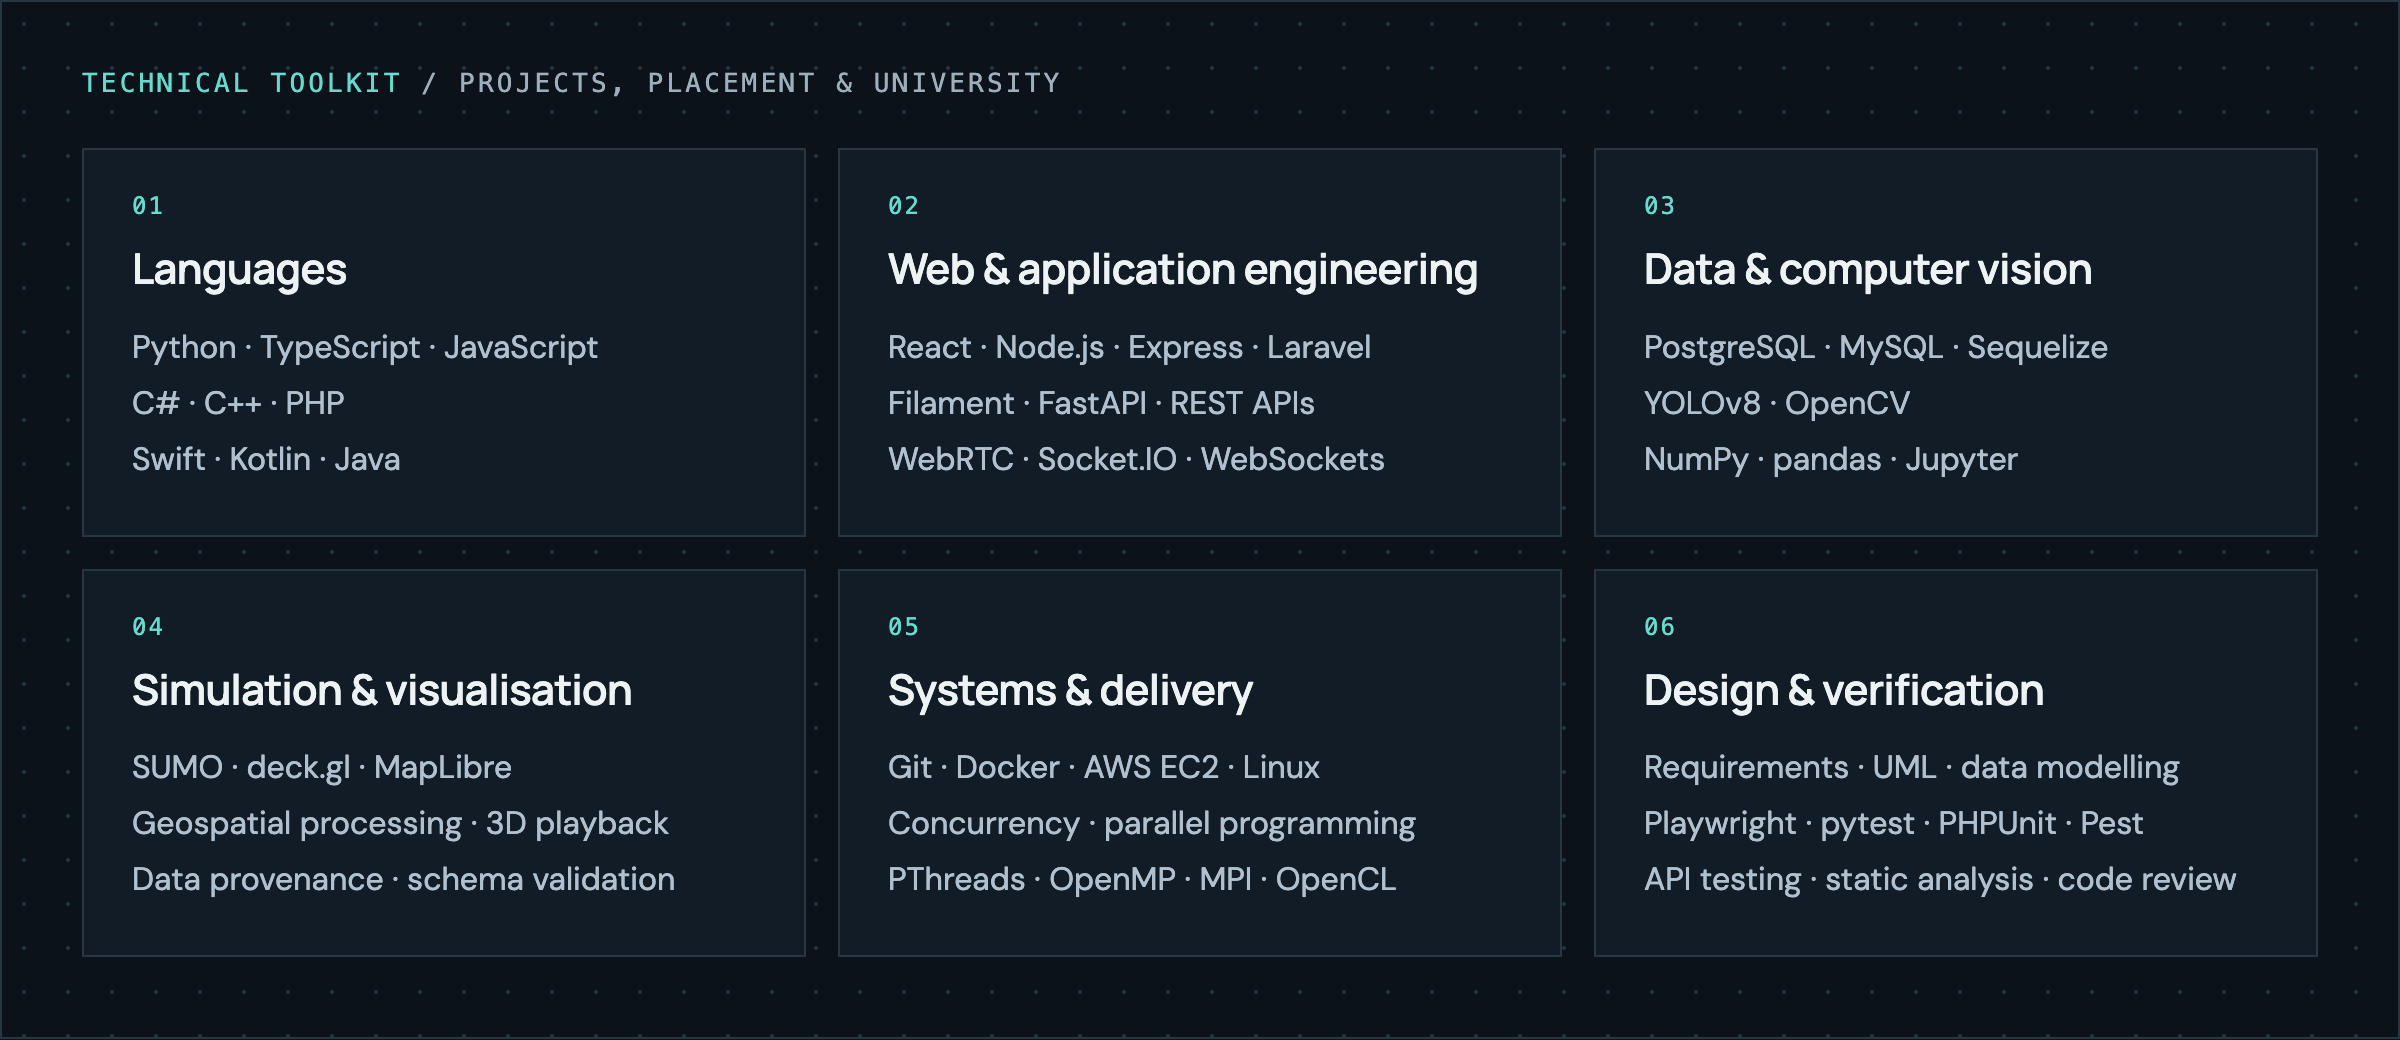
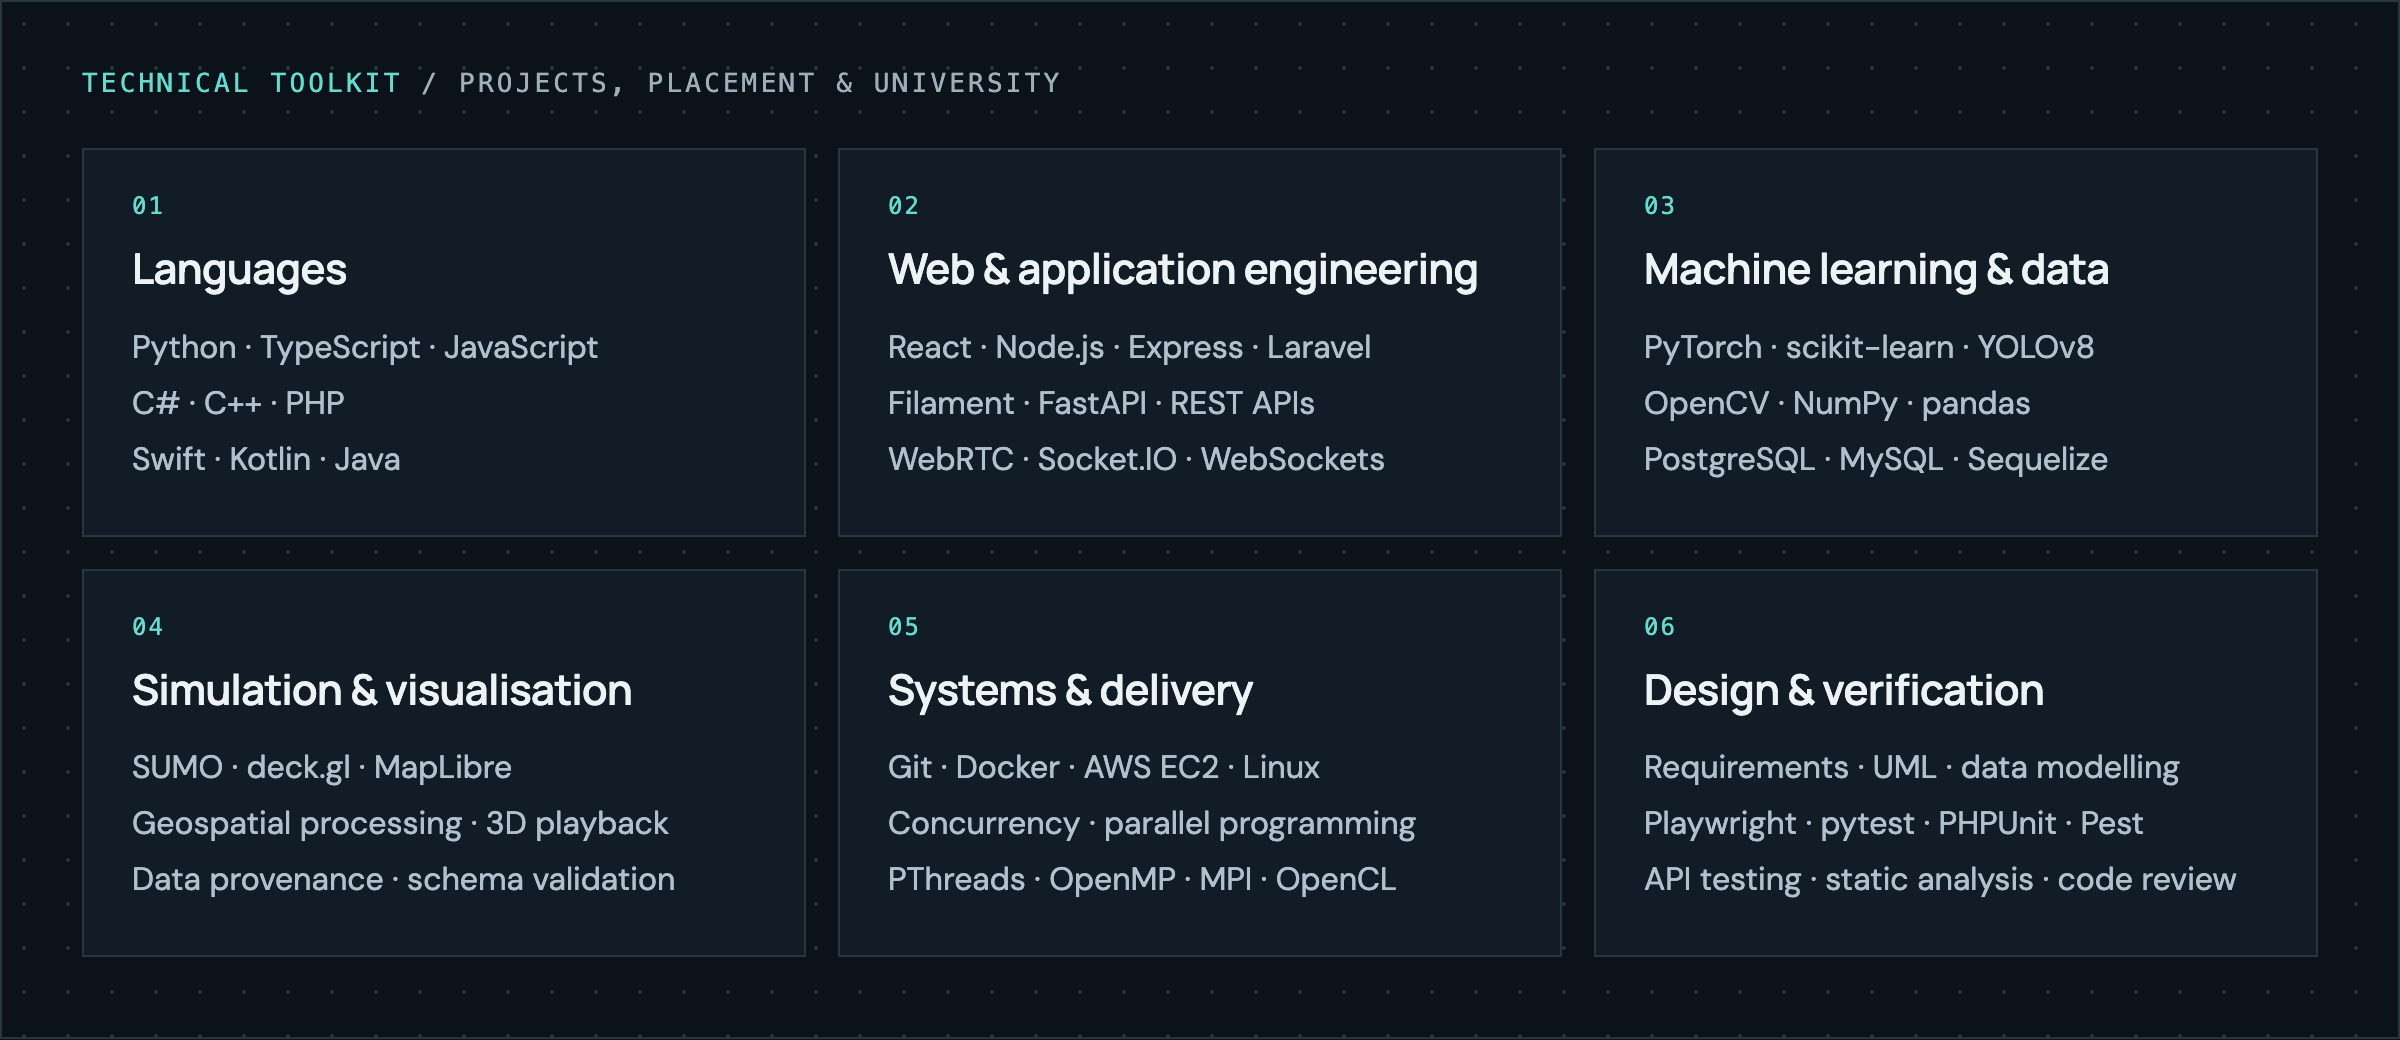
Align placement with LinkedIn and update toolkit
Use the Machine Learning & Full Stack Engineer (Placement) title and
wording, add High Distinctions, add PyTorch and scikit-learn to the
toolkit image, and trim repeated lines.

Changed region(s): [[0.6875, 0.3077, 0.875, 0.4], [0.6875, 0.4308, 0.875, 0.4615], [0.6875, 0.2462, 0.875, 0.2769]]

diff --git a/README.md b/README.md
@@ -2,7 +2,7 @@
 
 <p align="center"><a href="https://georgenich.github.io"><strong>Portfolio</strong></a> &nbsp;·&nbsp; <a href="https://www.linkedin.com/in/georgenicholson1998/">LinkedIn</a> &nbsp;·&nbsp; <a href="mailto:george.nicholson1998@gmail.com">Email</a></p>
 
-I build full-stack web applications, real-time systems and data pipelines. Computer Science graduate from Deakin University, with a software development placement at ITConnexion integrating computer vision into a healthcare application. Open to graduate and junior software engineering roles in Melbourne.
+I build full-stack web applications, real-time systems, data pipelines and computer-vision systems. Computer Science graduate from Deakin University, with a machine learning and full-stack placement at ITConnexion, building real-time wound detection for a healthcare application.
 
 ---
 
@@ -10,7 +10,7 @@ I build full-stack web applications, real-time systems and data pipelines. Compu
 
 <a href="https://georgenich.github.io/#melbourne"><img src="assets/melbourne-wide.jpg" width="100%" alt="Melbourne Traffic Simulator: a 3D replay of traffic through Southbank and the CBD"></a>
 
-3D traffic simulation of central Melbourne. A Python pipeline turns OpenStreetMap and City of Melbourne data into a 3D city and SUMO road network, and a WebGL viewer replays the traffic in the browser.
+3D traffic simulation of central Melbourne. A data pipeline turns OpenStreetMap and City of Melbourne data into a 3D city and road network, and a browser viewer replays the simulated traffic.
 
 - Calibrated against real morning-peak traffic counts from 45 signalised intersections
 - MapLibre and deck.gl share one WebGL depth buffer, so buildings correctly hide traffic behind them
@@ -24,7 +24,7 @@ I build full-stack web applications, real-time systems and data pipelines. Compu
 
 <a href="https://georgenich.github.io/#clearlink"><img src="assets/clearlink.png" width="100%" alt="Clearlink: a three-person video call with the chat panel open"></a>
 
-Peer-to-peer group video calls with screen sharing and chat. A React/TypeScript client and a zero-dependency Node.js signalling server, with audio and video sent directly between browsers over WebRTC and no calling SDK.
+Peer-to-peer group video calls with screen sharing and chat. A web client and a zero-dependency signalling server, with audio and video sent directly between browsers and no calling SDK.
 
 - Deterministic offer ownership and per-peer queues avoid conflicting offers when people join at once
 - Generation tokens stop outdated camera and microphone requests from leaving capture running
@@ -36,23 +36,23 @@ Peer-to-peer group video calls with screen sharing and chat. A React/TypeScript 
 
 ---
 
-### Software development placement · ITConnexion
+### Machine Learning & Full Stack Engineer (Placement) · ITConnexion
 
 <sub>Healthcare software · October 2024 – January 2025 · Melbourne</sub>
 
-Took over an undocumented Laravel/PHP healthcare application and delivered a working wound-tracking product. Integrated a Python FastAPI service using YOLOv8 segmentation to outline wounds and coin, card or ruler references for measurement, and linked the results to patient records, wound history and doctor review.
+Took over an undocumented Laravel/PHP healthcare application and delivered a working wound-tracking product. Built real-time wound detection, with a YOLOv8 model measuring each new photo within seconds and results updating live over WebSockets; delivered automated scale calibration from a detected ruler; and hardened the Python image-analysis API between FastAPI and Laravel.
 
-<sub>Laravel · PHP · Python · FastAPI · YOLOv8 · OpenCV · MySQL</sub>
+<sub>Laravel · PHP · Python · FastAPI · YOLOv8 · OpenCV · MySQL · WebSockets</sub>
 
 ---
 
-<img src="assets/toolkit.png" width="100%" alt="Technical toolkit. Languages: Python, TypeScript, JavaScript, C#, C++, PHP, Swift, Kotlin, Java. Web and application engineering: React, Node.js, Express, Laravel, Filament, FastAPI, REST APIs, WebRTC, Socket.IO, WebSockets. Data and computer vision: PostgreSQL, MySQL, Sequelize, YOLOv8, OpenCV, NumPy, pandas, Jupyter. Simulation and visualisation: SUMO, deck.gl, MapLibre, geospatial processing, 3D playback, data provenance, schema validation. Systems and delivery: Git, Docker, AWS EC2, Linux, concurrency, parallel programming, PThreads, OpenMP, MPI, OpenCL. Design and verification: requirements, UML, data modelling, Playwright, pytest, PHPUnit, Pest, API testing, static analysis, code review.">
+<img src="assets/toolkit.png" width="100%" alt="Technical toolkit. Languages: Python, TypeScript, JavaScript, C#, C++, PHP, Swift, Kotlin, Java. Web and application engineering: React, Node.js, Express, Laravel, Filament, FastAPI, REST APIs, WebRTC, Socket.IO, WebSockets. Machine learning and data: PyTorch, scikit-learn, YOLOv8, OpenCV, NumPy, pandas, PostgreSQL, MySQL, Sequelize. Simulation and visualisation: SUMO, deck.gl, MapLibre, geospatial processing, 3D playback, data provenance, schema validation. Systems and delivery: Git, Docker, AWS EC2, Linux, concurrency, parallel programming, PThreads, OpenMP, MPI, OpenCL. Design and verification: requirements, UML, data modelling, Playwright, pytest, PHPUnit, Pest, API testing, static analysis, code review.">
 
 ---
 
 ### Computer Science foundations
 
-**Bachelor of Computer Science** · Deakin University · completed September 2025<br>Diploma of Computing · Deakin College
+**Bachelor of Computer Science** · Deakin University · completed September 2025<br>High Distinctions in IT Placements, Professional Practice and IT Innovation; IoT capstone (High Distinction)<br>Diploma of Computing · Deakin College
 
 | Area | Selected work |
 | --- | --- |
